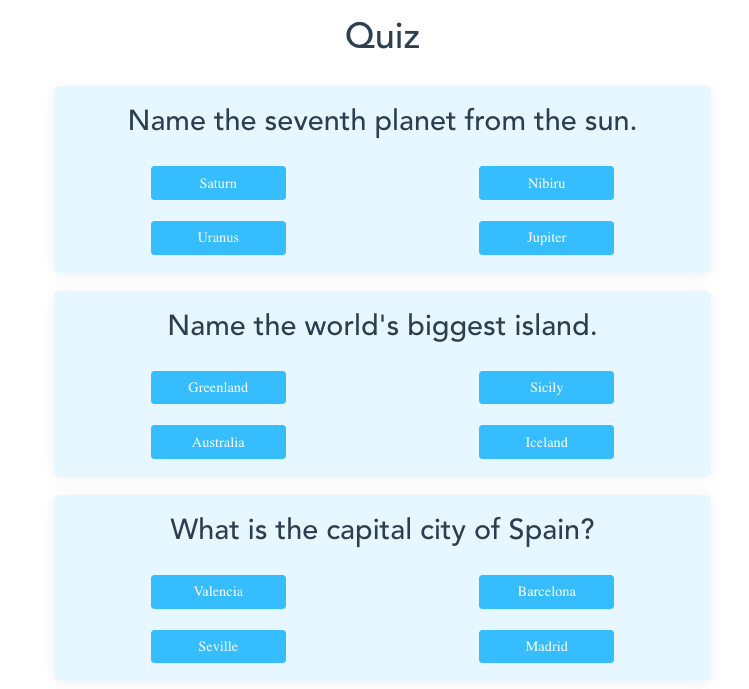
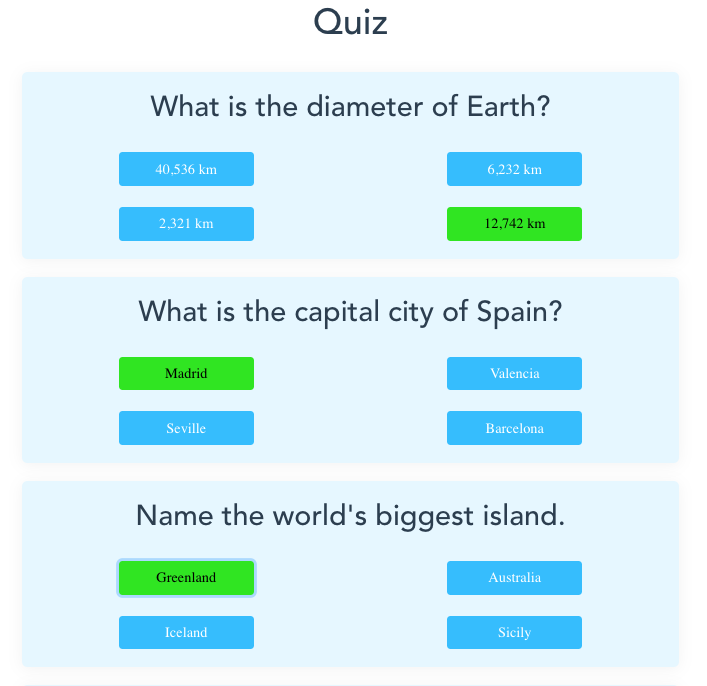
Change active answer's color

diff --git a/fe/quiz/src/components/Questions.vue b/fe/quiz/src/components/Questions.vue
@@ -3,15 +3,15 @@
     <div class="row">
       <div class='hidden-xs col-sm-2 col-md-2 col-lg-2'></div>
       <div class='col-xs-12 col-sm-8 col-md-8 col-lg-8'>
-        
+
         <h1>Quiz</h1>
-        
+
         <br/>
-        
+
         <div v-if="resultsAvailable">
           Correctly answered: {{results.correctAnswersPerc}}%
           <br/>
-          
+
           You did better than {{results.percentile}}% of players
           <br/>
           <br/>
@@ -19,49 +19,49 @@
 
         <div v-for="question in questions" class="container question-box" v-if="!resultsAvailable">
           <h2>{{question.text}}</h2>
-          
+
           <br/>
 
           <div class="row">
             <div class='col-xs-6 col-sm-6 col-md-6 col-lg-6'>
-              <button v-on:click="selectAnswer(question.id, question.answers[0])" type="button" class="btn answer-btn">{{question.answers[0]}}</button>
+              <button v-on:click="selectAnswer(question.id, question.answers[0], 0)" :id="'0' + question.id" type="button" class="btn answer-btn">{{question.answers[0]}}</button>
             </div>
             <div class='col-xs-6 col-sm-6 col-md-6 col-lg-6'>
-              <button v-on:click="selectAnswer(question.id, question.answers[1])" type="button" class="btn answer-btn">{{question.answers[1]}}</button>
+              <button v-on:click="selectAnswer(question.id, question.answers[1], 1)" :id="'1' + question.id" type="button" class="btn answer-btn">{{question.answers[1]}}</button>
             </div>
           </div>
-          
+
           <br/>
-          
+
           <div class="row">
             <div class='col-xs-6 col-sm-6 col-md-6 col-lg-6'>
-              <button v-on:click="selectAnswer(question.id, question.answers[2])" type="button" class="btn answer-btn">{{question.answers[2]}}</button>
+              <button v-on:click="selectAnswer(question.id, question.answers[2], 2)" :id="'2' + question.id" type="button" class="btn answer-btn">{{question.answers[2]}}</button>
             </div>
             <div class='col-xs-6 col-sm-6 col-md-6 col-lg-6'>
-              <button v-on:click="selectAnswer(question.id, question.answers[3])" type="button" class="btn answer-btn">{{question.answers[3]}}</button>
+              <button v-on:click="selectAnswer(question.id, question.answers[3], 3)" :id="'3' + question.id" type="button" class="btn answer-btn">{{question.answers[3]}}</button>
             </div>
           </div>
-          
+
         </div>
-        
+
         <div v-for="result in results.questionsResults" class="container question-box" v-if="resultsAvailable">
           <span v-if="result.answeredCorrectly" class="correct">CORRECT</span>
           <span v-else class="incorrect">INCORRECT</span>
-          
+
           <h2>{{result.questionText}}</h2>
-          
+
           Your answer: {{result.userAnswer}}
-          
+
           <br/>
-          
+
           Correct answer: {{result.correctAnswer}}
-          
+
           <br/>
         </div>
-        
+
         <button v-on:click="submit()" type="button" class="btn answer-btn" v-if="!resultsAvailable">Submit answers</button>
         <button v-on:click="tryAgain()" type="button" class="btn answer-btn" v-else>Try one more time</button>
-        
+
         <br/>
         <br/>
 
@@ -87,12 +87,23 @@ export default {
     }
   },
   methods: {
-    selectAnswer: function(questionID, answer) {
+    selectAnswer: function(questionID, answer, btnID) {
       this.answers[questionID] = answer;
+
+      // Set hit button to active.
+      document.getElementById(btnID.toString() + questionID).className += " active";
+
+      // Set the rest of the buttons to inactive.
+      for (let i = 0; i < 4; i++) {
+        if (i !== btnID) {
+          let elID = i.toString() + questionID;
+          document.getElementById(elID).className = document.getElementById(elID).className.replace( /(?:^|\s)active(?!\S)/g , '' );
+        }
+      }
     },
     submit: function() {
       let answersReq = [];
-      
+
       for (var questionID in this.answers) {
         if (this.answers.hasOwnProperty(questionID)) {
           answersReq.push({
@@ -101,7 +112,7 @@ export default {
           });
         }
       }
-      
+
       axios.post(beURL + '/answer', answersReq)
       .then((response) => {
         this.results = response.data.results;
@@ -147,6 +158,10 @@ export default {
   color: #fff;
   font-family: "Montserrat";
   width: 150px;
+}
+.active {
+  background-color: #00e600;
+  color: #000;
 }
 .correct {
   color: #00b33c;
